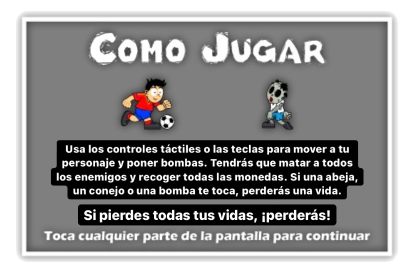
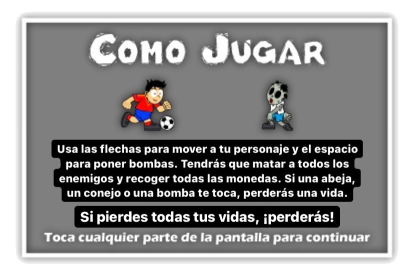
Acabado (ahora siiiiiiii)

diff --git a/NavesL4/GameLayer.cpp b/NavesL4/GameLayer.cpp
@@ -20,8 +20,6 @@ void GameLayer::init() {
 	tiles.clear();
 
 	audioBackground = new Audio("res/music-background.mp3", true);
-	//audioBackground = new Audio("res/duki.mp3", true);
-	//audioBackground = new Audio("res/session.mp3", true);
 	audioBackground->play();
 
 	enemigosMatados = 0;
@@ -337,7 +335,7 @@ void GameLayer::update() {
 
 	for (auto const& ladrillo : bloquesLadrillo) {
 		for (auto const& bomb : bombas) {
-			if (bomb->state == bomb->stateExplotando && isOverlapBomb(ladrillo, bomb)) {
+			if (bomb->state == bomb->stateExplotando && isOverlapBombTile(ladrillo, bomb)) {
 				bool eInList = std::find(deleteBloquesLadrillo.begin(),
 					deleteBloquesLadrillo.end(),
 					ladrillo) != deleteBloquesLadrillo.end();
@@ -549,16 +547,16 @@ void GameLayer::keysToControls(SDL_Event event) {
 		case SDLK_1:
 			game->scale();
 			break;
-		case SDLK_d: // derecha
+		case SDLK_RIGHT: // derecha
 			controlMoveX = 1;
 			break;
-		case SDLK_a: // izquierda
+		case SDLK_LEFT: // izquierda
 			controlMoveX = -1;
 			break;
-		case SDLK_w: // arriba
+		case SDLK_UP: // arriba
 			controlMoveY = -1;
 			break;
-		case SDLK_s: // abajo
+		case SDLK_DOWN: // abajo
 			controlMoveY = 1;
 			break;
 		case SDLK_SPACE: // dispara
@@ -570,22 +568,22 @@ void GameLayer::keysToControls(SDL_Event event) {
 		int code = event.key.keysym.sym;
 		// Levantada
 		switch (code) {
-		case SDLK_d: // derecha
+		case SDLK_RIGHT: // derecha
 			if (controlMoveX == 1) {
 				controlMoveX = 0;
 			}
 			break;
-		case SDLK_a: // izquierda
+		case SDLK_LEFT: // izquierda
 			if (controlMoveX == -1) {
 				controlMoveX = 0;
 			}
 			break;
-		case SDLK_w: // arriba
+		case SDLK_UP: // arriba
 			if (controlMoveY == -1) {
 				controlMoveY = 0;
 			}
 			break;
-		case SDLK_s: // abajo
+		case SDLK_DOWN: // abajo
 			if (controlMoveY == 1) {
 				controlMoveY = 0;
 			}
@@ -693,28 +691,75 @@ bool GameLayer::isOverlapBomb(Actor* actor, Bomba* bomb)
 	float ya = actor->y;
 	float xb = bomb->x;
 	float yb = bomb->y;
+
 	if (!bomb->afectado) {
 		if (bomb->izq) {
-			if (xb - (bomb->width / 2) <= xa && xa <= xb && ya <= yb + 20 && yb - 20 <= ya) {
+			if (xb - (bomb->width / 2) <= xa + (actor->width / 2) && xa <= xb && ya <= yb + 20 && yb - 20 <= ya) {
 				return true;
 			}
 		}
 		if (bomb->der) {
-			if (xb <= xa && xa <= (bomb->width / 2) && ya <= yb + 20 && yb - 20 <= ya) {
+			if (xb <= xa && xa - (actor->width / 2) <= xb + (bomb->width / 2) && ya <= yb + 20 && yb - 20 <= ya) {
 				return true;
 			}
 		}
 		if (bomb->up) {
-			if (yb - (bomb->height / 2) <= ya && ya <= yb && xa <= xa + 20 && xb - 20 <= xa) {
+			if (yb - (bomb->height / 2) <= ya + (actor->height / 2) && ya <= yb && xa <= xb + 20 && xb - 20 <= xa) {
 				return true;
 			}
 		}
 		if (bomb->down) {
-			if (yb <= ya && ya <= (yb + bomb->height / 2) && xa <= xa + 20 && xb - 20 <= xa) {
+			if (yb <= ya && ya - (actor->height / 2) <= yb + (bomb->height / 2) && xa <= xb + 20 && xb - 20 <= xa) {
 				return true;
 			}
 		}
+		return false;
 	}
-	return false;
+	else {
+		return actor->isOverlap(bomb);
+	}
 }
 
+bool GameLayer::isOverlapBombTile(Tile* tile, Bomba* bomb)
+{
+	float xa = tile->x;
+	float ya = tile->y;
+	float xb = bomb->x;
+	float yb = bomb->y;
+	float na, nb;
+
+	if (!bomb->afectado) {
+		if (bomb->izq) {
+			na = (xa + tile->width / 2);	//parte der del tile
+			nb = (xb - bomb->width / 2);	//parte izq de la bomba
+			if (ya == yb && na >= nb) {
+				return true;
+			}
+		}
+		if (bomb->der) {
+			na = (xa - bomb->width / 2);	//parte izq del tile
+			nb = (xb + bomb->width / 2);	//parte der de la bomba
+			if (ya == yb && nb >= na) {
+				return true;
+			}
+		}
+		if (bomb->up) {
+			na = (ya + tile->height / 2);	//parte abajo del tile
+			nb = (yb - bomb->height / 2);	//parte arriba de la bomba
+			if (xa == xb && na >= nb) {
+				return true;
+			}
+		}
+		if (bomb->down) {
+			na = (ya - tile->height);	//parte arriba del tile
+			nb = (yb + bomb->height / 2);	//parte abajo de la bomba
+			if (xa == xb && nb >= na) {
+				return true;
+			}
+		}
+		return false;
+	}
+	else {
+		return tile->isOverlap(bomb);
+	}
+}

diff --git a/NavesL4/Game.cpp b/NavesL4/Game.cpp
@@ -9,7 +9,7 @@ Game::Game() {
 	if (SDL_CreateWindowAndRenderer(WIDTH, HEIGHT, 0, &window, &renderer) < 0) {
 		cout << "Error Window y Renderer" << SDL_GetError() << endl;
 	}
-	SDL_SetWindowTitle(window, "Boomberman");
+	SDL_SetWindowTitle(window, "Bomberman");
 	SDL_SetHint(SDL_HINT_RENDER_SCALE_QUALITY, "1");
 	
 	menuLayer = new MenuLayer(this);

diff --git a/NavesL4/GameLayer.h b/NavesL4/GameLayer.h
@@ -36,6 +36,7 @@ public:
 	float calculateXBomb();
 	float calculateYBomb();
 	bool isOverlapBomb(Actor* actor, Bomba* bomb);
+	bool isOverlapBombTile(Tile* tile, Bomba* bomb);
 	string bombDirection(float xb, float yb);
 	Actor* message;
 	bool pause;
